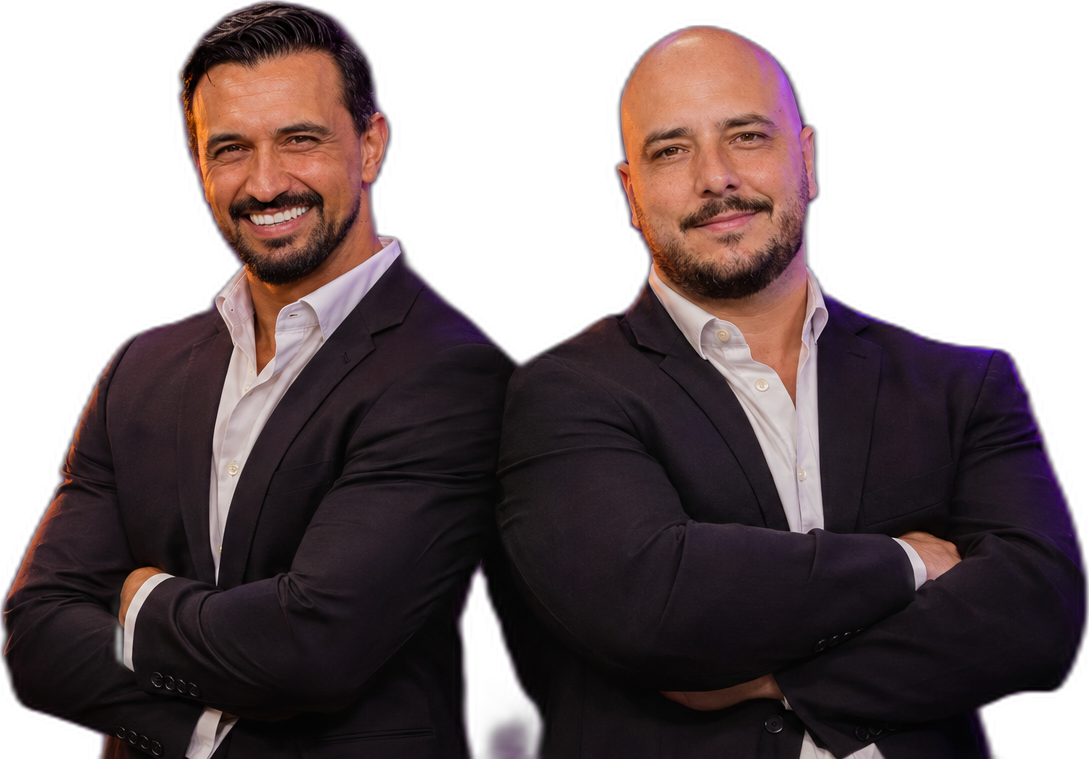
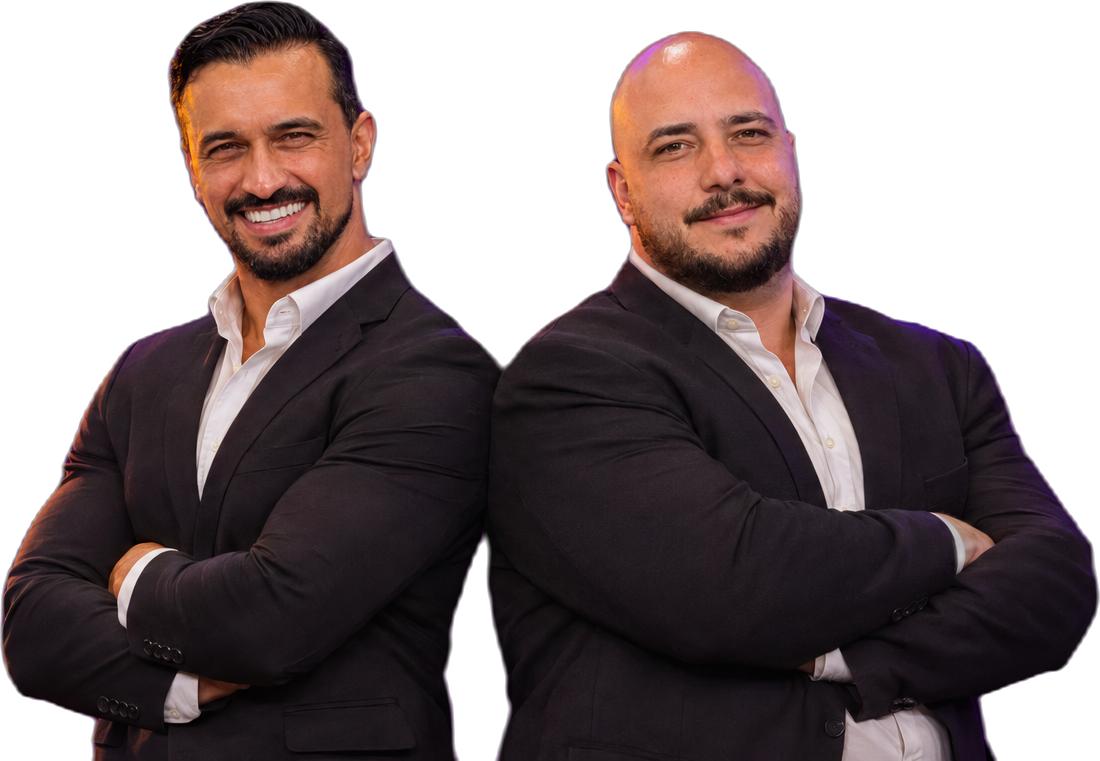
fix(bora-conta): fotos da dupla refeitas com rostos e biotipo reais no PDF de patrocínio

diff --git a/bora-conta/documentos/patrocinio/patrocinio.html b/bora-conta/documentos/patrocinio/patrocinio.html
@@ -56,7 +56,7 @@
 
   /* ===== QUEM SOMOS ===== */
   .foto { height: 70mm; border-radius: 5mm; overflow: hidden; margin: 7mm 0 7mm; position: relative; border: .4mm solid var(--borda); }
-  .foto img { width: 100%; height: 100%; object-fit: cover; object-position: 50% 30%; }
+  .foto img { width: 100%; height: 100%; object-fit: cover; object-position: 50% 0%; }
   .foto::after { content: ""; position: absolute; inset: 0; background: linear-gradient(transparent 55%, rgba(26,0,51,.7)); }
   .numeros { display: grid; grid-template-columns: repeat(4, 1fr); gap: 4mm; }
   .num { background: var(--card); border: .35mm solid var(--borda); border-radius: 4mm; padding: 5mm 2mm 4.5mm; text-align: center; }
